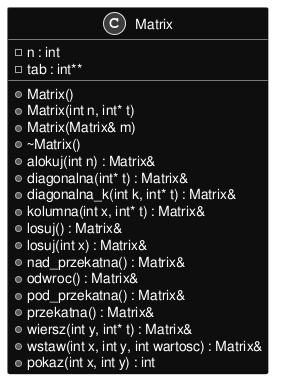
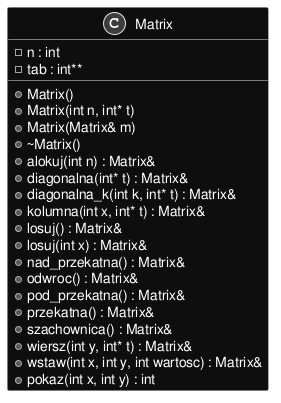
deploy: 8c6e594b9ffc7a12f615c9afddf9df695bd6b4b3

Changed region(s): [[0.0285, 0.0, 0.968, 0.9922], [0.7687, 0.8682, 0.9395, 0.9302]]

diff --git a/Matrix_8hpp_source.html b/Matrix_8hpp_source.html
@@ -105,48 +105,50 @@ $(function(){initNavTree('Matrix_8hpp_source.html',''); initResizable(true); });
 <a href="Matrix_8hpp.html">Idź do dokumentacji tego pliku.</a><div class="fragment"><div class="line"><a id="l00001" name="l00001"></a><span class="lineno">    1</span><span class="preprocessor">#ifndef A7F977BB_AE3A_48CD_A727_8AFC90710D10</span></div>
 <div class="line"><a id="l00002" name="l00002"></a><span class="lineno">    2</span><span class="preprocessor">#define A7F977BB_AE3A_48CD_A727_8AFC90710D10</span></div>
 <div class="line"><a id="l00003" name="l00003"></a><span class="lineno">    3</span> </div>
-<div class="foldopen" id="foldopen00031" data-start="{" data-end="};">
-<div class="line"><a id="l00031" name="l00031"></a><span class="lineno"><a class="line" href="classMatrix.html">   31</a></span><span class="keyword">class </span><a class="code hl_class" href="classMatrix.html">Matrix</a> {</div>
-<div class="line"><a id="l00032" name="l00032"></a><span class="lineno">   32</span>    <span class="keyword">private</span>:</div>
-<div class="line"><a id="l00033" name="l00033"></a><span class="lineno"><a class="line" href="classMatrix.html#a6f755dbfbefb9b4ba6c2b3acea8932f2">   33</a></span>    <span class="keywordtype">int</span> <a class="code hl_variable" href="classMatrix.html#a6f755dbfbefb9b4ba6c2b3acea8932f2">n</a>;</div>
-<div class="line"><a id="l00034" name="l00034"></a><span class="lineno"><a class="line" href="classMatrix.html#af45069dcccaf5064534287376925dde9">   34</a></span>    <span class="keywordtype">int</span>** <a class="code hl_variable" href="classMatrix.html#af45069dcccaf5064534287376925dde9">tab</a>;</div>
-<div class="line"><a id="l00035" name="l00035"></a><span class="lineno">   35</span>    <span class="keyword">public</span>:</div>
-<div class="line"><a id="l00036" name="l00036"></a><span class="lineno">   36</span>    <a class="code hl_function" href="classMatrix.html#a2dba13c45127354c9f75ef576f49269b">Matrix</a>();</div>
-<div class="line"><a id="l00037" name="l00037"></a><span class="lineno">   37</span>    <a class="code hl_function" href="classMatrix.html#a2dba13c45127354c9f75ef576f49269b">Matrix</a>(<span class="keywordtype">int</span> <a class="code hl_variable" href="classMatrix.html#a6f755dbfbefb9b4ba6c2b3acea8932f2">n</a>, <span class="keywordtype">int</span>* t);</div>
-<div class="line"><a id="l00038" name="l00038"></a><span class="lineno">   38</span>    <a class="code hl_function" href="classMatrix.html#a2dba13c45127354c9f75ef576f49269b">Matrix</a>(<a class="code hl_class" href="classMatrix.html">Matrix</a>&amp; m);</div>
-<div class="line"><a id="l00039" name="l00039"></a><span class="lineno">   39</span>    <a class="code hl_function" href="classMatrix.html#a7e496da93f0e3165a0dc82d79f7ba545">~Matrix</a>(<span class="keywordtype">void</span>);</div>
-<div class="line"><a id="l00040" name="l00040"></a><span class="lineno">   40</span> </div>
+<div class="foldopen" id="foldopen00032" data-start="{" data-end="};">
+<div class="line"><a id="l00032" name="l00032"></a><span class="lineno"><a class="line" href="classMatrix.html">   32</a></span><span class="keyword">class </span><a class="code hl_class" href="classMatrix.html">Matrix</a> {</div>
+<div class="line"><a id="l00033" name="l00033"></a><span class="lineno">   33</span>    <span class="keyword">private</span>:</div>
+<div class="line"><a id="l00034" name="l00034"></a><span class="lineno"><a class="line" href="classMatrix.html#a6f755dbfbefb9b4ba6c2b3acea8932f2">   34</a></span>    <span class="keywordtype">int</span> <a class="code hl_variable" href="classMatrix.html#a6f755dbfbefb9b4ba6c2b3acea8932f2">n</a>;</div>
+<div class="line"><a id="l00035" name="l00035"></a><span class="lineno"><a class="line" href="classMatrix.html#af45069dcccaf5064534287376925dde9">   35</a></span>    <span class="keywordtype">int</span>** <a class="code hl_variable" href="classMatrix.html#af45069dcccaf5064534287376925dde9">tab</a>;</div>
+<div class="line"><a id="l00036" name="l00036"></a><span class="lineno">   36</span>    <span class="keyword">public</span>:</div>
+<div class="line"><a id="l00037" name="l00037"></a><span class="lineno">   37</span>    <a class="code hl_function" href="classMatrix.html#a2dba13c45127354c9f75ef576f49269b">Matrix</a>();</div>
+<div class="line"><a id="l00038" name="l00038"></a><span class="lineno">   38</span>    <a class="code hl_function" href="classMatrix.html#a2dba13c45127354c9f75ef576f49269b">Matrix</a>(<span class="keywordtype">int</span> <a class="code hl_variable" href="classMatrix.html#a6f755dbfbefb9b4ba6c2b3acea8932f2">n</a>, <span class="keywordtype">int</span>* t);</div>
+<div class="line"><a id="l00039" name="l00039"></a><span class="lineno">   39</span>    <a class="code hl_function" href="classMatrix.html#a2dba13c45127354c9f75ef576f49269b">Matrix</a>(<a class="code hl_class" href="classMatrix.html">Matrix</a>&amp; m);</div>
+<div class="line"><a id="l00040" name="l00040"></a><span class="lineno">   40</span>    <a class="code hl_function" href="classMatrix.html#a7e496da93f0e3165a0dc82d79f7ba545">~Matrix</a>(<span class="keywordtype">void</span>);</div>
 <div class="line"><a id="l00041" name="l00041"></a><span class="lineno">   41</span> </div>
-<div class="line"><a id="l00042" name="l00042"></a><span class="lineno">   42</span>    <a class="code hl_class" href="classMatrix.html">Matrix</a>&amp; <a class="code hl_function" href="classMatrix.html#ab3f0a19323d5bd35dca008c68b99051d">alokuj</a>(<span class="keywordtype">int</span> <a class="code hl_variable" href="classMatrix.html#a6f755dbfbefb9b4ba6c2b3acea8932f2">n</a>);</div>
-<div class="line"><a id="l00043" name="l00043"></a><span class="lineno">   43</span>    <a class="code hl_class" href="classMatrix.html">Matrix</a>&amp; <a class="code hl_function" href="classMatrix.html#a4c51072cbc09f22715057260d901b746">wstaw</a>(<span class="keywordtype">int</span> x, <span class="keywordtype">int</span> y, <span class="keywordtype">int</span> wartosc);</div>
-<div class="line"><a id="l00044" name="l00044"></a><span class="lineno">   44</span>    <span class="keywordtype">int</span> <a class="code hl_function" href="classMatrix.html#aed115facfa208a9530c4acde26ffe9b4">pokaz</a>(<span class="keywordtype">int</span> x, <span class="keywordtype">int</span> y);</div>
-<div class="line"><a id="l00045" name="l00045"></a><span class="lineno">   45</span>    <a class="code hl_class" href="classMatrix.html">Matrix</a>&amp; <a class="code hl_function" href="classMatrix.html#a5b1bb742c2b57a692b7bfcc7310ea5b8">odwroc</a>(<span class="keywordtype">void</span>);</div>
-<div class="line"><a id="l00046" name="l00046"></a><span class="lineno">   46</span>    <a class="code hl_class" href="classMatrix.html">Matrix</a>&amp; <a class="code hl_function" href="classMatrix.html#a9890f7ceadc64dfce30c453bc766fbc1">losuj</a>(<span class="keywordtype">void</span>);</div>
-<div class="line"><a id="l00047" name="l00047"></a><span class="lineno">   47</span>    <a class="code hl_class" href="classMatrix.html">Matrix</a>&amp; <a class="code hl_function" href="classMatrix.html#a9890f7ceadc64dfce30c453bc766fbc1">losuj</a>(<span class="keywordtype">int</span> x);</div>
-<div class="line"><a id="l00048" name="l00048"></a><span class="lineno">   48</span>    <a class="code hl_class" href="classMatrix.html">Matrix</a>&amp; <a class="code hl_function" href="classMatrix.html#a58be50b5cc890341c14b1a9b370ab3ea">diagonalna</a>(<span class="keywordtype">int</span>* t);</div>
-<div class="line"><a id="l00049" name="l00049"></a><span class="lineno">   49</span>    <a class="code hl_class" href="classMatrix.html">Matrix</a>&amp; <a class="code hl_function" href="classMatrix.html#adc718e6ae5b2a8b3943a4e8c4bc53d9e">diagonalna_k</a>(<span class="keywordtype">int</span> k, <span class="keywordtype">int</span>* t);</div>
-<div class="line"><a id="l00050" name="l00050"></a><span class="lineno">   50</span>    <a class="code hl_class" href="classMatrix.html">Matrix</a>&amp; <a class="code hl_function" href="classMatrix.html#a07c8cf926bbe71edb6b6de6651e3c3ff">kolumna</a>(<span class="keywordtype">int</span> x, <span class="keywordtype">int</span>* t); </div>
-<div class="line"><a id="l00051" name="l00051"></a><span class="lineno">   51</span>    <a class="code hl_class" href="classMatrix.html">Matrix</a>&amp; <a class="code hl_function" href="classMatrix.html#ab248526b2a9757b3134c8f605699d2af">wiersz</a>(<span class="keywordtype">int</span> y, <span class="keywordtype">int</span>* t);</div>
-<div class="line"><a id="l00052" name="l00052"></a><span class="lineno">   52</span>    <a class="code hl_class" href="classMatrix.html">Matrix</a>&amp; <a class="code hl_function" href="classMatrix.html#a5a803eb1eddeeb51348addc3df4adfc4">przekatna</a>(<span class="keywordtype">void</span>); </div>
-<div class="line"><a id="l00053" name="l00053"></a><span class="lineno">   53</span>    <a class="code hl_class" href="classMatrix.html">Matrix</a>&amp; <a class="code hl_function" href="classMatrix.html#a94ae5c979b6a38c75ea10988c5319f34">pod_przekatna</a>(<span class="keywordtype">void</span>);</div>
-<div class="line"><a id="l00054" name="l00054"></a><span class="lineno">   54</span>    <a class="code hl_class" href="classMatrix.html">Matrix</a>&amp; <a class="code hl_function" href="classMatrix.html#a026951ec56444ea55bebfdf29595bc79">nad_przekatna</a>(<span class="keywordtype">void</span>);</div>
-<div class="line"><a id="l00055" name="l00055"></a><span class="lineno">   55</span>};</div>
+<div class="line"><a id="l00042" name="l00042"></a><span class="lineno">   42</span> </div>
+<div class="line"><a id="l00043" name="l00043"></a><span class="lineno">   43</span>    <a class="code hl_class" href="classMatrix.html">Matrix</a>&amp; <a class="code hl_function" href="classMatrix.html#ab3f0a19323d5bd35dca008c68b99051d">alokuj</a>(<span class="keywordtype">int</span> <a class="code hl_variable" href="classMatrix.html#a6f755dbfbefb9b4ba6c2b3acea8932f2">n</a>);</div>
+<div class="line"><a id="l00044" name="l00044"></a><span class="lineno">   44</span>    <a class="code hl_class" href="classMatrix.html">Matrix</a>&amp; <a class="code hl_function" href="classMatrix.html#a4c51072cbc09f22715057260d901b746">wstaw</a>(<span class="keywordtype">int</span> x, <span class="keywordtype">int</span> y, <span class="keywordtype">int</span> wartosc);</div>
+<div class="line"><a id="l00045" name="l00045"></a><span class="lineno">   45</span>    <span class="keywordtype">int</span> <a class="code hl_function" href="classMatrix.html#aed115facfa208a9530c4acde26ffe9b4">pokaz</a>(<span class="keywordtype">int</span> x, <span class="keywordtype">int</span> y);</div>
+<div class="line"><a id="l00046" name="l00046"></a><span class="lineno">   46</span>    <a class="code hl_class" href="classMatrix.html">Matrix</a>&amp; <a class="code hl_function" href="classMatrix.html#a5b1bb742c2b57a692b7bfcc7310ea5b8">odwroc</a>(<span class="keywordtype">void</span>);</div>
+<div class="line"><a id="l00047" name="l00047"></a><span class="lineno">   47</span>    <a class="code hl_class" href="classMatrix.html">Matrix</a>&amp; <a class="code hl_function" href="classMatrix.html#a9890f7ceadc64dfce30c453bc766fbc1">losuj</a>(<span class="keywordtype">void</span>);</div>
+<div class="line"><a id="l00048" name="l00048"></a><span class="lineno">   48</span>    <a class="code hl_class" href="classMatrix.html">Matrix</a>&amp; <a class="code hl_function" href="classMatrix.html#a9890f7ceadc64dfce30c453bc766fbc1">losuj</a>(<span class="keywordtype">int</span> x);</div>
+<div class="line"><a id="l00049" name="l00049"></a><span class="lineno">   49</span>    <a class="code hl_class" href="classMatrix.html">Matrix</a>&amp; <a class="code hl_function" href="classMatrix.html#a58be50b5cc890341c14b1a9b370ab3ea">diagonalna</a>(<span class="keywordtype">int</span>* t);</div>
+<div class="line"><a id="l00050" name="l00050"></a><span class="lineno">   50</span>    <a class="code hl_class" href="classMatrix.html">Matrix</a>&amp; <a class="code hl_function" href="classMatrix.html#adc718e6ae5b2a8b3943a4e8c4bc53d9e">diagonalna_k</a>(<span class="keywordtype">int</span> k, <span class="keywordtype">int</span>* t);</div>
+<div class="line"><a id="l00051" name="l00051"></a><span class="lineno">   51</span>    <a class="code hl_class" href="classMatrix.html">Matrix</a>&amp; <a class="code hl_function" href="classMatrix.html#a07c8cf926bbe71edb6b6de6651e3c3ff">kolumna</a>(<span class="keywordtype">int</span> x, <span class="keywordtype">int</span>* t); </div>
+<div class="line"><a id="l00052" name="l00052"></a><span class="lineno">   52</span>    <a class="code hl_class" href="classMatrix.html">Matrix</a>&amp; <a class="code hl_function" href="classMatrix.html#ab248526b2a9757b3134c8f605699d2af">wiersz</a>(<span class="keywordtype">int</span> y, <span class="keywordtype">int</span>* t);</div>
+<div class="line"><a id="l00053" name="l00053"></a><span class="lineno">   53</span>    <a class="code hl_class" href="classMatrix.html">Matrix</a>&amp; <a class="code hl_function" href="classMatrix.html#a5a803eb1eddeeb51348addc3df4adfc4">przekatna</a>(<span class="keywordtype">void</span>); </div>
+<div class="line"><a id="l00054" name="l00054"></a><span class="lineno">   54</span>    <a class="code hl_class" href="classMatrix.html">Matrix</a>&amp; <a class="code hl_function" href="classMatrix.html#a94ae5c979b6a38c75ea10988c5319f34">pod_przekatna</a>(<span class="keywordtype">void</span>);</div>
+<div class="line"><a id="l00055" name="l00055"></a><span class="lineno">   55</span>    <a class="code hl_class" href="classMatrix.html">Matrix</a>&amp; <a class="code hl_function" href="classMatrix.html#a026951ec56444ea55bebfdf29595bc79">nad_przekatna</a>(<span class="keywordtype">void</span>);</div>
+<div class="line"><a id="l00056" name="l00056"></a><span class="lineno"><a class="line" href="classMatrix.html#a2a25b5230363a7cbeac7a228abad5458">   56</a></span>    <a class="code hl_class" href="classMatrix.html">Matrix</a>&amp; <a class="code hl_function" href="classMatrix.html#a2a25b5230363a7cbeac7a228abad5458">szachownica</a>(<span class="keywordtype">void</span>);</div>
+<div class="line"><a id="l00057" name="l00057"></a><span class="lineno">   57</span>};</div>
 </div>
-<div class="line"><a id="l00056" name="l00056"></a><span class="lineno">   56</span> </div>
-<div class="line"><a id="l00057" name="l00057"></a><span class="lineno">   57</span> </div>
 <div class="line"><a id="l00058" name="l00058"></a><span class="lineno">   58</span> </div>
 <div class="line"><a id="l00059" name="l00059"></a><span class="lineno">   59</span> </div>
 <div class="line"><a id="l00060" name="l00060"></a><span class="lineno">   60</span> </div>
-<div class="line"><a id="l00061" name="l00061"></a><span class="lineno">   61</span><span class="preprocessor">#endif </span><span class="comment">/* A7F977BB_AE3A_48CD_A727_8AFC90710D10 */</span><span class="preprocessor"></span></div>
-<div class="ttc" id="aclassMatrix_html"><div class="ttname"><a href="classMatrix.html">Matrix</a></div><div class="ttdef"><b>Definicja</b> Matrix.hpp:31</div></div>
+<div class="line"><a id="l00061" name="l00061"></a><span class="lineno">   61</span> </div>
+<div class="line"><a id="l00062" name="l00062"></a><span class="lineno">   62</span> </div>
+<div class="line"><a id="l00063" name="l00063"></a><span class="lineno">   63</span><span class="preprocessor">#endif </span><span class="comment">/* A7F977BB_AE3A_48CD_A727_8AFC90710D10 */</span><span class="preprocessor"></span></div>
+<div class="ttc" id="aclassMatrix_html"><div class="ttname"><a href="classMatrix.html">Matrix</a></div><div class="ttdef"><b>Definicja</b> Matrix.hpp:32</div></div>
 <div class="ttc" id="aclassMatrix_html_a026951ec56444ea55bebfdf29595bc79"><div class="ttname"><a href="classMatrix.html#a026951ec56444ea55bebfdf29595bc79">Matrix::nad_przekatna</a></div><div class="ttdeci">Matrix &amp; nad_przekatna(void)</div><div class="ttdef"><b>Definicja</b> Matrix.cpp:204</div></div>
 <div class="ttc" id="aclassMatrix_html_a07c8cf926bbe71edb6b6de6651e3c3ff"><div class="ttname"><a href="classMatrix.html#a07c8cf926bbe71edb6b6de6651e3c3ff">Matrix::kolumna</a></div><div class="ttdeci">Matrix &amp; kolumna(int x, int *t)</div><div class="ttdef"><b>Definicja</b> Matrix.cpp:161</div></div>
+<div class="ttc" id="aclassMatrix_html_a2a25b5230363a7cbeac7a228abad5458"><div class="ttname"><a href="classMatrix.html#a2a25b5230363a7cbeac7a228abad5458">Matrix::szachownica</a></div><div class="ttdeci">Matrix &amp; szachownica(void)</div></div>
 <div class="ttc" id="aclassMatrix_html_a2dba13c45127354c9f75ef576f49269b"><div class="ttname"><a href="classMatrix.html#a2dba13c45127354c9f75ef576f49269b">Matrix::Matrix</a></div><div class="ttdeci">Matrix()</div><div class="ttdef"><b>Definicja</b> Matrix.cpp:11</div></div>
 <div class="ttc" id="aclassMatrix_html_a4c51072cbc09f22715057260d901b746"><div class="ttname"><a href="classMatrix.html#a4c51072cbc09f22715057260d901b746">Matrix::wstaw</a></div><div class="ttdeci">Matrix &amp; wstaw(int x, int y, int wartosc)</div><div class="ttdef"><b>Definicja</b> Matrix.cpp:60</div></div>
 <div class="ttc" id="aclassMatrix_html_a58be50b5cc890341c14b1a9b370ab3ea"><div class="ttname"><a href="classMatrix.html#a58be50b5cc890341c14b1a9b370ab3ea">Matrix::diagonalna</a></div><div class="ttdeci">Matrix &amp; diagonalna(int *t)</div><div class="ttdef"><b>Definicja</b> Matrix.cpp:127</div></div>
 <div class="ttc" id="aclassMatrix_html_a5a803eb1eddeeb51348addc3df4adfc4"><div class="ttname"><a href="classMatrix.html#a5a803eb1eddeeb51348addc3df4adfc4">Matrix::przekatna</a></div><div class="ttdeci">Matrix &amp; przekatna(void)</div><div class="ttdef"><b>Definicja</b> Matrix.cpp:182</div></div>
 <div class="ttc" id="aclassMatrix_html_a5b1bb742c2b57a692b7bfcc7310ea5b8"><div class="ttname"><a href="classMatrix.html#a5b1bb742c2b57a692b7bfcc7310ea5b8">Matrix::odwroc</a></div><div class="ttdeci">Matrix &amp; odwroc(void)</div><div class="ttdef"><b>Definicja</b> Matrix.cpp:78</div></div>
-<div class="ttc" id="aclassMatrix_html_a6f755dbfbefb9b4ba6c2b3acea8932f2"><div class="ttname"><a href="classMatrix.html#a6f755dbfbefb9b4ba6c2b3acea8932f2">Matrix::n</a></div><div class="ttdeci">int n</div><div class="ttdef"><b>Definicja</b> Matrix.hpp:33</div></div>
+<div class="ttc" id="aclassMatrix_html_a6f755dbfbefb9b4ba6c2b3acea8932f2"><div class="ttname"><a href="classMatrix.html#a6f755dbfbefb9b4ba6c2b3acea8932f2">Matrix::n</a></div><div class="ttdeci">int n</div><div class="ttdef"><b>Definicja</b> Matrix.hpp:34</div></div>
 <div class="ttc" id="aclassMatrix_html_a7e496da93f0e3165a0dc82d79f7ba545"><div class="ttname"><a href="classMatrix.html#a7e496da93f0e3165a0dc82d79f7ba545">Matrix::~Matrix</a></div><div class="ttdeci">~Matrix(void)</div><div class="ttdef"><b>Definicja</b> Matrix.cpp:4</div></div>
 <div class="ttc" id="aclassMatrix_html_a94ae5c979b6a38c75ea10988c5319f34"><div class="ttname"><a href="classMatrix.html#a94ae5c979b6a38c75ea10988c5319f34">Matrix::pod_przekatna</a></div><div class="ttdeci">Matrix &amp; pod_przekatna(void)</div><div class="ttdef"><b>Definicja</b> Matrix.cpp:193</div></div>
 <div class="ttc" id="aclassMatrix_html_a9890f7ceadc64dfce30c453bc766fbc1"><div class="ttname"><a href="classMatrix.html#a9890f7ceadc64dfce30c453bc766fbc1">Matrix::losuj</a></div><div class="ttdeci">Matrix &amp; losuj(void)</div><div class="ttdef"><b>Definicja</b> Matrix.cpp:100</div></div>
@@ -154,7 +156,7 @@ $(function(){initNavTree('Matrix_8hpp_source.html',''); initResizable(true); });
 <div class="ttc" id="aclassMatrix_html_ab3f0a19323d5bd35dca008c68b99051d"><div class="ttname"><a href="classMatrix.html#ab3f0a19323d5bd35dca008c68b99051d">Matrix::alokuj</a></div><div class="ttdeci">Matrix &amp; alokuj(int n)</div><div class="ttdef"><b>Definicja</b> Matrix.cpp:33</div></div>
 <div class="ttc" id="aclassMatrix_html_adc718e6ae5b2a8b3943a4e8c4bc53d9e"><div class="ttname"><a href="classMatrix.html#adc718e6ae5b2a8b3943a4e8c4bc53d9e">Matrix::diagonalna_k</a></div><div class="ttdeci">Matrix &amp; diagonalna_k(int k, int *t)</div><div class="ttdef"><b>Definicja</b> Matrix.cpp:141</div></div>
 <div class="ttc" id="aclassMatrix_html_aed115facfa208a9530c4acde26ffe9b4"><div class="ttname"><a href="classMatrix.html#aed115facfa208a9530c4acde26ffe9b4">Matrix::pokaz</a></div><div class="ttdeci">int pokaz(int x, int y)</div><div class="ttdef"><b>Definicja</b> Matrix.cpp:69</div></div>
-<div class="ttc" id="aclassMatrix_html_af45069dcccaf5064534287376925dde9"><div class="ttname"><a href="classMatrix.html#af45069dcccaf5064534287376925dde9">Matrix::tab</a></div><div class="ttdeci">int ** tab</div><div class="ttdef"><b>Definicja</b> Matrix.hpp:34</div></div>
+<div class="ttc" id="aclassMatrix_html_af45069dcccaf5064534287376925dde9"><div class="ttname"><a href="classMatrix.html#af45069dcccaf5064534287376925dde9">Matrix::tab</a></div><div class="ttdeci">int ** tab</div><div class="ttdef"><b>Definicja</b> Matrix.hpp:35</div></div>
 </div><!-- fragment --></div><!-- contents -->
 </div><!-- doc-content -->
 <!-- start footer part -->

diff --git a/classMatrix-members.html b/classMatrix-members.html
@@ -120,10 +120,11 @@ $(function(){initNavTree('classMatrix.html',''); initResizable(true); });
   <tr class="even"><td class="entry"><a class="el" href="classMatrix.html#a94ae5c979b6a38c75ea10988c5319f34">pod_przekatna</a>(void)</td><td class="entry"><a class="el" href="classMatrix.html">Matrix</a></td><td class="entry"></td></tr>
   <tr class="odd"><td class="entry"><a class="el" href="classMatrix.html#aed115facfa208a9530c4acde26ffe9b4">pokaz</a>(int x, int y)</td><td class="entry"><a class="el" href="classMatrix.html">Matrix</a></td><td class="entry"></td></tr>
   <tr class="even"><td class="entry"><a class="el" href="classMatrix.html#a5a803eb1eddeeb51348addc3df4adfc4">przekatna</a>(void)</td><td class="entry"><a class="el" href="classMatrix.html">Matrix</a></td><td class="entry"></td></tr>
-  <tr class="odd"><td class="entry"><a class="el" href="classMatrix.html#af45069dcccaf5064534287376925dde9">tab</a></td><td class="entry"><a class="el" href="classMatrix.html">Matrix</a></td><td class="entry"><span class="mlabel">private</span></td></tr>
-  <tr class="even"><td class="entry"><a class="el" href="classMatrix.html#ab248526b2a9757b3134c8f605699d2af">wiersz</a>(int y, int *t)</td><td class="entry"><a class="el" href="classMatrix.html">Matrix</a></td><td class="entry"></td></tr>
-  <tr class="odd"><td class="entry"><a class="el" href="classMatrix.html#a4c51072cbc09f22715057260d901b746">wstaw</a>(int x, int y, int wartosc)</td><td class="entry"><a class="el" href="classMatrix.html">Matrix</a></td><td class="entry"></td></tr>
-  <tr class="even"><td class="entry"><a class="el" href="classMatrix.html#a7e496da93f0e3165a0dc82d79f7ba545">~Matrix</a>(void)</td><td class="entry"><a class="el" href="classMatrix.html">Matrix</a></td><td class="entry"></td></tr>
+  <tr class="odd"><td class="entry"><a class="el" href="classMatrix.html#a2a25b5230363a7cbeac7a228abad5458">szachownica</a>(void)</td><td class="entry"><a class="el" href="classMatrix.html">Matrix</a></td><td class="entry"></td></tr>
+  <tr class="even"><td class="entry"><a class="el" href="classMatrix.html#af45069dcccaf5064534287376925dde9">tab</a></td><td class="entry"><a class="el" href="classMatrix.html">Matrix</a></td><td class="entry"><span class="mlabel">private</span></td></tr>
+  <tr class="odd"><td class="entry"><a class="el" href="classMatrix.html#ab248526b2a9757b3134c8f605699d2af">wiersz</a>(int y, int *t)</td><td class="entry"><a class="el" href="classMatrix.html">Matrix</a></td><td class="entry"></td></tr>
+  <tr class="even"><td class="entry"><a class="el" href="classMatrix.html#a4c51072cbc09f22715057260d901b746">wstaw</a>(int x, int y, int wartosc)</td><td class="entry"><a class="el" href="classMatrix.html">Matrix</a></td><td class="entry"></td></tr>
+  <tr class="odd"><td class="entry"><a class="el" href="classMatrix.html#a7e496da93f0e3165a0dc82d79f7ba545">~Matrix</a>(void)</td><td class="entry"><a class="el" href="classMatrix.html">Matrix</a></td><td class="entry"></td></tr>
 </table></div><!-- contents -->
 </div><!-- doc-content -->
 <!-- start footer part -->

diff --git a/classMatrix.html b/classMatrix.html
@@ -145,6 +145,8 @@ Metody publiczne</h2></td></tr>
 <tr class="separator:a94ae5c979b6a38c75ea10988c5319f34"><td class="memSeparator" colspan="2">&#160;</td></tr>
 <tr class="memitem:a026951ec56444ea55bebfdf29595bc79" id="r_a026951ec56444ea55bebfdf29595bc79"><td class="memItemLeft" align="right" valign="top"><a class="el" href="classMatrix.html">Matrix</a> &amp;&#160;</td><td class="memItemRight" valign="bottom"><a class="el" href="#a026951ec56444ea55bebfdf29595bc79">nad_przekatna</a> (void)</td></tr>
 <tr class="separator:a026951ec56444ea55bebfdf29595bc79"><td class="memSeparator" colspan="2">&#160;</td></tr>
+<tr class="memitem:a2a25b5230363a7cbeac7a228abad5458" id="r_a2a25b5230363a7cbeac7a228abad5458"><td class="memItemLeft" align="right" valign="top"><a class="el" href="classMatrix.html">Matrix</a> &amp;&#160;</td><td class="memItemRight" valign="bottom"><a class="el" href="#a2a25b5230363a7cbeac7a228abad5458">szachownica</a> (void)</td></tr>
+<tr class="separator:a2a25b5230363a7cbeac7a228abad5458"><td class="memSeparator" colspan="2">&#160;</td></tr>
 </table><table class="memberdecls">
 <tr class="heading"><td colspan="2"><h2 class="groupheader"><a id="pri-attribs" name="pri-attribs"></a>
 Atrybuty prywatne</h2></td></tr>
@@ -421,6 +423,23 @@ Atrybuty prywatne</h2></td></tr>
       <table class="memname">
         <tr>
           <td class="memname"><a class="el" href="classMatrix.html">Matrix</a> &amp; Matrix::przekatna </td>
+          <td>(</td>
+          <td class="paramtype">void</td>          <td class="paramname"><span class="paramname"><em></em></span></td><td>)</td>
+          <td></td>
+        </tr>
+      </table>
+</div><div class="memdoc">
+
+</div>
+</div>
+<a id="a2a25b5230363a7cbeac7a228abad5458" name="a2a25b5230363a7cbeac7a228abad5458"></a>
+<h2 class="memtitle"><span class="permalink"><a href="#a2a25b5230363a7cbeac7a228abad5458">&#9670;&#160;</a></span>szachownica()</h2>
+
+<div class="memitem">
+<div class="memproto">
+      <table class="memname">
+        <tr>
+          <td class="memname"><a class="el" href="classMatrix.html">Matrix</a> &amp; Matrix::szachownica </td>
           <td>(</td>
           <td class="paramtype">void</td>          <td class="paramname"><span class="paramname"><em></em></span></td><td>)</td>
           <td></td>

diff --git a/navtreeindex0.js b/navtreeindex0.js
@@ -7,22 +7,23 @@ var NAVTREEINDEX0 =
 "classMatrix.html":[1,0,0],
 "classMatrix.html#a026951ec56444ea55bebfdf29595bc79":[1,0,0,10],
 "classMatrix.html#a07c8cf926bbe71edb6b6de6651e3c3ff":[1,0,0,7],
+"classMatrix.html#a2a25b5230363a7cbeac7a228abad5458":[1,0,0,15],
 "classMatrix.html#a2dba13c45127354c9f75ef576f49269b":[1,0,0,0],
 "classMatrix.html#a3637f6ad376fdc053d595bce3e17ec02":[1,0,0,1],
 "classMatrix.html#a381bbe46892c80e0837e1080eea9943e":[1,0,0,8],
-"classMatrix.html#a4c51072cbc09f22715057260d901b746":[1,0,0,16],
+"classMatrix.html#a4c51072cbc09f22715057260d901b746":[1,0,0,17],
 "classMatrix.html#a58be50b5cc890341c14b1a9b370ab3ea":[1,0,0,5],
 "classMatrix.html#a5a803eb1eddeeb51348addc3df4adfc4":[1,0,0,14],
 "classMatrix.html#a5b1bb742c2b57a692b7bfcc7310ea5b8":[1,0,0,11],
-"classMatrix.html#a6f755dbfbefb9b4ba6c2b3acea8932f2":[1,0,0,17],
+"classMatrix.html#a6f755dbfbefb9b4ba6c2b3acea8932f2":[1,0,0,18],
 "classMatrix.html#a7e496da93f0e3165a0dc82d79f7ba545":[1,0,0,3],
 "classMatrix.html#a94ae5c979b6a38c75ea10988c5319f34":[1,0,0,12],
 "classMatrix.html#a9890f7ceadc64dfce30c453bc766fbc1":[1,0,0,9],
-"classMatrix.html#ab248526b2a9757b3134c8f605699d2af":[1,0,0,15],
+"classMatrix.html#ab248526b2a9757b3134c8f605699d2af":[1,0,0,16],
 "classMatrix.html#ab3f0a19323d5bd35dca008c68b99051d":[1,0,0,4],
 "classMatrix.html#adc718e6ae5b2a8b3943a4e8c4bc53d9e":[1,0,0,6],
 "classMatrix.html#aed115facfa208a9530c4acde26ffe9b4":[1,0,0,13],
-"classMatrix.html#af45069dcccaf5064534287376925dde9":[1,0,0,18],
+"classMatrix.html#af45069dcccaf5064534287376925dde9":[1,0,0,19],
 "classMatrix.html#af4c99503d4e4b31c5e73eceef9c7e1d0":[1,0,0,2],
 "classes.html":[1,1],
 "convert_8py.html":[2,0,0],

diff --git a/functions_func.html b/functions_func.html
@@ -111,6 +111,7 @@ $(function(){initNavTree('functions_func.html',''); initResizable(true); });
 <li>pod_przekatna()&#160;:&#160;<a class="el" href="classMatrix.html#a94ae5c979b6a38c75ea10988c5319f34">Matrix</a></li>
 <li>pokaz()&#160;:&#160;<a class="el" href="classMatrix.html#aed115facfa208a9530c4acde26ffe9b4">Matrix</a></li>
 <li>przekatna()&#160;:&#160;<a class="el" href="classMatrix.html#a5a803eb1eddeeb51348addc3df4adfc4">Matrix</a></li>
+<li>szachownica()&#160;:&#160;<a class="el" href="classMatrix.html#a2a25b5230363a7cbeac7a228abad5458">Matrix</a></li>
 <li>wiersz()&#160;:&#160;<a class="el" href="classMatrix.html#ab248526b2a9757b3134c8f605699d2af">Matrix</a></li>
 <li>wstaw()&#160;:&#160;<a class="el" href="classMatrix.html#a4c51072cbc09f22715057260d901b746">Matrix</a></li>
 <li>~Matrix()&#160;:&#160;<a class="el" href="classMatrix.html#a7e496da93f0e3165a0dc82d79f7ba545">Matrix</a></li>

diff --git a/functions.html b/functions.html
@@ -112,6 +112,7 @@ $(function(){initNavTree('functions.html',''); initResizable(true); });
 <li>pod_przekatna()&#160;:&#160;<a class="el" href="classMatrix.html#a94ae5c979b6a38c75ea10988c5319f34">Matrix</a></li>
 <li>pokaz()&#160;:&#160;<a class="el" href="classMatrix.html#aed115facfa208a9530c4acde26ffe9b4">Matrix</a></li>
 <li>przekatna()&#160;:&#160;<a class="el" href="classMatrix.html#a5a803eb1eddeeb51348addc3df4adfc4">Matrix</a></li>
+<li>szachownica()&#160;:&#160;<a class="el" href="classMatrix.html#a2a25b5230363a7cbeac7a228abad5458">Matrix</a></li>
 <li>tab&#160;:&#160;<a class="el" href="classMatrix.html#af45069dcccaf5064534287376925dde9">Matrix</a></li>
 <li>wiersz()&#160;:&#160;<a class="el" href="classMatrix.html#ab248526b2a9757b3134c8f605699d2af">Matrix</a></li>
 <li>wstaw()&#160;:&#160;<a class="el" href="classMatrix.html#a4c51072cbc09f22715057260d901b746">Matrix</a></li>

diff --git a/doxygen_crawl.html b/doxygen_crawl.html
@@ -51,6 +51,8 @@
 <a href="functions.html"/>
 <a href="functions.html"/>
 <a href="functions.html"/>
+<a href="functions.html"/>
+<a href="functions_func.html"/>
 <a href="functions_func.html"/>
 <a href="functions_func.html"/>
 <a href="functions_func.html"/>
@@ -72,6 +74,7 @@
 <a href="classMatrix.html"/>
 <a href="classMatrix.html#a026951ec56444ea55bebfdf29595bc79"/>
 <a href="classMatrix.html#a07c8cf926bbe71edb6b6de6651e3c3ff"/>
+<a href="classMatrix.html#a2a25b5230363a7cbeac7a228abad5458"/>
 <a href="classMatrix.html#a2dba13c45127354c9f75ef576f49269b"/>
 <a href="classMatrix.html#a3637f6ad376fdc053d595bce3e17ec02"/>
 <a href="classMatrix.html#a381bbe46892c80e0837e1080eea9943e"/>

diff --git a/classMatrix.js b/classMatrix.js
@@ -15,6 +15,7 @@ var classMatrix =
     [ "pod_przekatna", "classMatrix.html#a94ae5c979b6a38c75ea10988c5319f34", null ],
     [ "pokaz", "classMatrix.html#aed115facfa208a9530c4acde26ffe9b4", null ],
     [ "przekatna", "classMatrix.html#a5a803eb1eddeeb51348addc3df4adfc4", null ],
+    [ "szachownica", "classMatrix.html#a2a25b5230363a7cbeac7a228abad5458", null ],
     [ "wiersz", "classMatrix.html#ab248526b2a9757b3134c8f605699d2af", null ],
     [ "wstaw", "classMatrix.html#a4c51072cbc09f22715057260d901b746", null ],
     [ "n", "classMatrix.html#a6f755dbfbefb9b4ba6c2b3acea8932f2", null ],

diff --git a/search/all_c.js b/search/all_c.js
@@ -1,5 +1,6 @@
 var searchData=
 [
   ['starting_5fpoints_0',['starting_points',['../namespaceconvert.html#aef25b168b8e7ee81120d043894842f61',1,'convert']]],
-  ['stripped_5fline_1',['stripped_line',['../namespaceconvert.html#adbdbc6c6f1347d826ea8f1fd5df63479',1,'convert']]]
+  ['stripped_5fline_1',['stripped_line',['../namespaceconvert.html#adbdbc6c6f1347d826ea8f1fd5df63479',1,'convert']]],
+  ['szachownica_2',['szachownica',['../classMatrix.html#a2a25b5230363a7cbeac7a228abad5458',1,'Matrix']]]
 ];

diff --git a/search/functions_9.js b/search/functions_9.js
@@ -1,5 +1,4 @@
 var searchData=
 [
-  ['wiersz_0',['wiersz',['../classMatrix.html#ab248526b2a9757b3134c8f605699d2af',1,'Matrix']]],
-  ['wstaw_1',['wstaw',['../classMatrix.html#a4c51072cbc09f22715057260d901b746',1,'Matrix']]]
+  ['szachownica_0',['szachownica',['../classMatrix.html#a2a25b5230363a7cbeac7a228abad5458',1,'Matrix']]]
 ];

diff --git a/search/functions_a.js b/search/functions_a.js
@@ -1,4 +1,5 @@
 var searchData=
 [
-  ['_7ematrix_0',['~Matrix',['../classMatrix.html#a7e496da93f0e3165a0dc82d79f7ba545',1,'Matrix']]]
+  ['wiersz_0',['wiersz',['../classMatrix.html#ab248526b2a9757b3134c8f605699d2af',1,'Matrix']]],
+  ['wstaw_1',['wstaw',['../classMatrix.html#a4c51072cbc09f22715057260d901b746',1,'Matrix']]]
 ];

diff --git a/search/searchdata.js b/search/searchdata.js
@@ -4,7 +4,7 @@ var indexSectionsWithContent =
   1: "m",
   2: "c",
   3: "cm",
-  4: "adgklmnopw~",
+  4: "adgklmnopsw~",
   5: "abcilnopst"
 };
 
